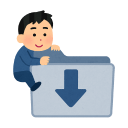
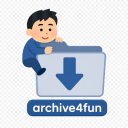
✨ feat: migrate from popup to Chrome Side Panel
- Replace popup with persistent side panel (Chrome 114+)
- Add minimum_chrome_version requirement
- Rename product to archive4fun in manifest and READMEs
- Update screenshots and icons for new branding
- Update READMEs to reflect side panel behavior

diff --git a/src/panel.html b/src/panel.html
@@ -2,15 +2,13 @@
 <html lang="zh-CN">
 <head>
   <meta charset="UTF-8">
-  <title>微博相册原图下载</title>
+  <title>archive4fun</title>
   <style>
-    body { font-family: Arial, sans-serif; width: 450px; margin: 10px; }
+    body { font-family: Arial, sans-serif; width: 100%; margin: 10px; box-sizing: border-box; }
     button { margin: 5px 0; }
-    ul { max-height: 200px; overflow-y: auto; padding: 0; list-style: none; }
+    ul { max-height: 400px; overflow-y: auto; padding: 0; list-style: none; }
     li { word-break: break-all; font-size: 12px; margin-bottom: 4px; }
     .link-list { margin: 10px 0; }
-    .header { display: flex; align-items: center; gap: 8px; margin-bottom: 15px; }
-    .header img { width: 24px; height: 24px; }
     .user-info {
       margin-bottom: 15px;
       padding: 8px 12px;
@@ -24,7 +22,7 @@
       background: #ffebee;
       color: #d32f2f;
     }
-    .download-controls { display: flex; align-items: center; gap: 8px; }
+    .download-controls { display: flex; align-items: center; gap: 8px; flex-wrap: wrap; }
     .download-controls label { font-size: 13px; }
     .download-controls select { min-width: 70px; font-size: 13px; }
     .download-status { margin-top: 5px; font-size: 12px; color: #666; }
@@ -63,10 +61,6 @@
   </style>
 </head>
 <body>
-  <div class="header">
-    <img src="../assets/icon128.png" alt="Icon">
-    <h2>微博相册原图下载</h2>
-  </div>
   <div id="user-info" class="user-info">
     <div id="user-info-text"></div>
   </div>
@@ -91,6 +85,6 @@
     <div class="reward-text">✨ 有帮助你备份回忆吗？可以扫码请我喝杯咖啡，支持我继续维护。</div>
     <img src="../assets/reward_code.png" alt="微信赞赏码">
   </div>
-  <script src="popup.js"></script>
+  <script src="panel.js"></script>
 </body>
-</html> 
+</html>

diff --git a/src/background.js b/src/background.js
@@ -1,3 +1,7 @@
+chrome.sidePanel
+  .setPanelBehavior({ openPanelOnActionClick: true })
+  .catch(console.error);
+
 chrome.runtime.onMessage.addListener((message, sender, sendResponse) => {
   if (message.action === 'download_blob' && message.blobUrl && message.filename) {
     chrome.downloads.download({

diff --git a/README.md b/README.md
@@ -1,7 +1,7 @@
 # Sina Weibo Album Downloader (Chrome Extension)
 
 <p align="center">
-  <img src="assets/logo.png" alt="Sina Weibo Album Downloader Icon">
+  <img src="assets/logo.png" alt="archive4fun">
 </p>
 
 [简体中文版 README 在此 (README.zh-CN.md)](./README.zh-CN.md)
@@ -26,8 +26,9 @@ This extension was created to help me back up nearly 4,000 photos I uploaded to 
 
 ## How to Use
 
-1. **Navigate to the Weibo user's profile page:**
+1. **Navigate to the Weibo user's profile page and open the side panel:**
    - Go to any page of the Weibo user whose photos you want to download (e.g., `weibo.com/u/用户ID`). You do not need to navigate to the album tab specifically.
+   - Click the extension icon in the toolbar to open the side panel.
 
    <p align="center">
      <img src="assets/fetch_not_start.png" alt="Navigate to Weibo Profile Page" width="470" />
@@ -42,7 +43,7 @@ This extension was created to help me back up nearly 4,000 photos I uploaded to 
 
 3. **Select a date range and click "批量下载" (Batch Download):**
    - After fetching, images are grouped by year and month. Use the "从分组" (From) and "到分组" (To) dropdowns to select the date range you want to download.
-   - You can now close the popup. The images will continue downloading in the background as long as your browser remains open.
+   - Unlike the old popup (which would close the moment you clicked anywhere else), the side panel stays open as long as you don't close it — you can freely switch tabs or continue browsing in the main window while downloads run in the background. Note: closing the side panel resets the UI state, so keep it open during your session.
 
    <p align="center">
      <img src="assets/fetch_done.png" alt="Batch Download Ready" width="500" />
@@ -77,5 +78,5 @@ This extension was created to help me back up nearly 4,000 photos I uploaded to 
 ## Why Not ZIP Batch Download?
 
 - **Browser Limitations:** Chrome extensions cannot reliably create and download large ZIP files due to memory and security restrictions.
-- **Popup Lifecycle:** The extension popup may be closed by Chrome during long operations, interrupting ZIP creation.
+- **Side Panel Lifecycle:** Even with the persistent side panel, ZIP creation in the browser is unreliable for large batches — Chrome may terminate the operation due to memory or security restrictions before it completes.
 - **CORS and Anti-Leeching:** Direct downloads from the background script are blocked by Weibo's anti-hotlinking, so all downloads must be initiated from the page context.

diff --git a/README.zh-CN.md b/README.zh-CN.md
@@ -1,7 +1,7 @@
 # 新浪微博相册批量下载器（Chrome 扩展）
 
 <p align="center">
-  <img src="assets/logo.png" alt="Sina Weibo Album Downloader Icon">
+  <img src="assets/logo.png" alt="archive4fun">
 </p>
 
 [English README is available here (README.md)](./README.md)
@@ -26,8 +26,9 @@
 
 ## 使用方法
 
-1. **导航到微博用户的主页：**
+1. **导航到微博用户的主页并打开侧边栏：**
    - 前往你想要下载照片的微博用户主页（如 `weibo.com/u/用户ID`），无需特意切换到相册 tab。
+   - 点击工具栏中的扩展图标，打开侧边栏。
 
    <p align="center">
      <img src="assets/fetch_not_start.png" alt="Navigate to Weibo Profile Page" width="470" />
@@ -42,7 +43,7 @@
 
 3. **选择日期范围，点击"批量下载"按钮：**
    - 抓取完成后，图片会按年月分组。通过"从分组"和"到分组"两个下拉框选择你想下载的日期范围。
-   - 点击下载后即可关闭弹窗，图片会在浏览器后台持续下载，只要浏览器未关闭即可。
+   - 与旧版弹窗不同（旧版点击任何地方都会关闭），只要不主动关闭侧边栏，你可以随意切换 tab、在左侧页面继续做其他事情，下载会在后台持续进行。注意：关闭侧边栏后重新打开，抓取状态会重置，建议整个使用过程中保持侧边栏开启。
 
    <p align="center">
      <img src="assets/fetch_done.png" alt="Batch Download Ready" width="470" />
@@ -77,5 +78,5 @@
 ## 为什么不支持打包 ZIP 批量下载？
 
 - **浏览器限制：** Chrome 扩展无法可靠地创建和下载大体积 ZIP 文件，受限于内存和安全策略。
-- **弹窗生命周期：** 扩展弹窗在长时间操作时可能被 Chrome 关闭，导致 ZIP 创建中断。
+- **侧边栏限制：** 即便有持久的侧边栏，在浏览器中创建大体积 ZIP 仍不稳定——Chrome 可能因内存或安全限制，在操作完成前终止任务。
 - **CORS 与防盗链：** 后台脚本直接下载会被微博防盗链拦截，所有下载必须在页面上下文中发起。 
